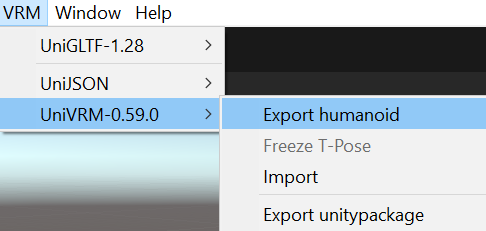
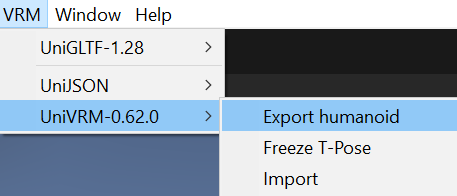
updated images

diff --git a/content/en/docs/univrm/export/univrm_export.md b/content/en/docs/univrm/export/univrm_export.md
@@ -13,7 +13,7 @@ tags: ["unity"]
 
 ## v0.58~
 
-{{< img src="images/vrm/export058_dialog.jpg" width="600" alt="vrm export" >}}
+{{< img src="images/vrm/export062_dialog_en.png" width="900" alt="vrm export" >}}
 
 The export dialog is based on Unity's [EditorWindow](https://docs.unity3d.com/ScriptReference/EditorWindow.html)
 
@@ -23,7 +23,7 @@ The export dialog is based on Unity's [EditorWindow](https://docs.unity3d.com/Sc
 
 Open VRM Exporter Window by `VRM` -> `UniVRM-0.XX` -> `Export humanoid`
 
-{{< img src="images/vrm/export058_menu.jpg" width="600" alt="vrm export" >}}
+{{< img src="images/vrm/UniVRMExportHumanoid.png" width="600" alt="vrm export" >}}
 
 * You can directly pick up exportable target in the Project Window now. There is no need to put the Prefab in the scene first. 
 
@@ -39,7 +39,7 @@ Open VRM Exporter Window by `VRM` -> `UniVRM-0.XX` -> `Export humanoid`
 
 #### Conditions for Valid ExportRoot
 
-{{< img src="images/vrm/export058_empty.jpg" width="600" alt="vrm export" >}}
+{{< img src="images/vrm/export062_empty_en.jpg" width="600" alt="vrm export" >}}
 
 The setting screen for ExportRoot will show up if the following conditions are satisfied:
 

diff --git a/content/en/docs/vrm/how_to_make_vrm/convert_from_humanoid_model.md b/content/en/docs/vrm/how_to_make_vrm/convert_from_humanoid_model.md
@@ -92,13 +92,11 @@ Related Pages about UniVRM export:
   * [UniVRM Export]({{< relref "univrm_export.md" >}})
   * [VRM Size]({{< relref "vrm_size.md" >}})
 
-{{< img src="images/vrm/export058_dialog.jpg" width="600" alt="vrm export" >}}
+{{< img src="images/vrm/export062_dialog_en.png" width="900" alt="vrm export" >}}
 
 * Force T Pose
-    * Force the model pose to become [T-Pose]({{< relref "humanoid_overview.md" >}}) before removing rotation / scaling.
+    * Force the model pose to become [T-Pose]({{< relref "humanoid_overview.md#t-pose" >}}) before removing rotation / scaling.
 * Pose Freeze
     * Whether the rotation / scaling removal processing should be performed. This is **the process of normalizing model** for conforming to the VRM rules. Please make sure to check the boxes at the **first time of use**. After this process is done, all the components can work correctly.
-
-Details about model's T-Pose normalization [can be found here]({{< relref "humanoid_overview.md" >}}).
 
 In the next section, we will introduce how to [import and set up VRM file first time]({{< relref "setup_vrm.md" >}}).

diff --git a/content/ja/docs/univrm/export/univrm_export.md b/content/ja/docs/univrm/export/univrm_export.md
@@ -13,7 +13,7 @@ tags: ["unity"]
 
 ## v0.58~
 
-{{< img src="images/vrm/export058_dialog.jpg" width="600" alt="vrm export" >}}
+{{< img src="images/vrm/export062_dialog.png" width="900" alt="vrm export" >}}
 
 Unityの [EditorWindow](https://docs.unity3d.com/ScriptReference/EditorWindow.html) で画面を作成しています。
 
@@ -23,7 +23,7 @@ Unityの [EditorWindow](https://docs.unity3d.com/ScriptReference/EditorWindow.ht
 
 以前と同じメニューから表示できます。
 
-{{< img src="images/vrm/export058_menu.jpg" width="600" alt="vrm export" >}}
+{{< img src="images/vrm/UniVRMExportHumanoid.png" width="600" alt="vrm export" >}}
 
 * シーン側でエクスポート可能なオブジェクトを先に選択する必要が無くなりました
 

diff --git a/content/ja/docs/vrm/how_to_make_vrm/convert_from_humanoid_model.md b/content/ja/docs/vrm/how_to_make_vrm/convert_from_humanoid_model.md
@@ -105,7 +105,7 @@ BlendShapeで変な影が出る場合の対策です。
 
 ## エクスポート
 
-{{< img src="images/vrm/export058_menu.jpg" width="600" height="700" >}}
+{{< img src="images/vrm/UniVRMExportHumanoid.png" width="600" height="700" >}}
 
 `VRM` - `UniVRM-0.XX.Y` - `Export Humanoid` を押してダイアログを表示します。
 
